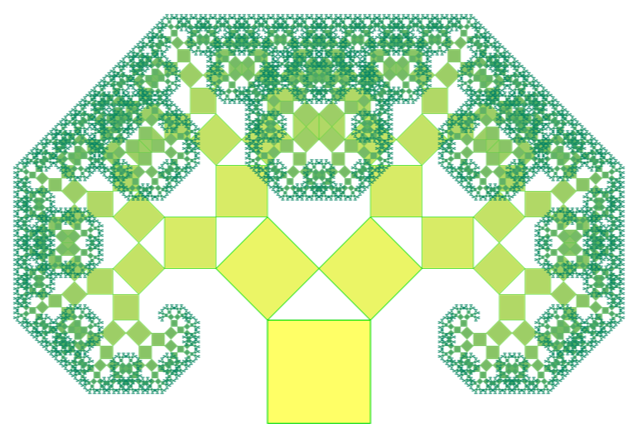
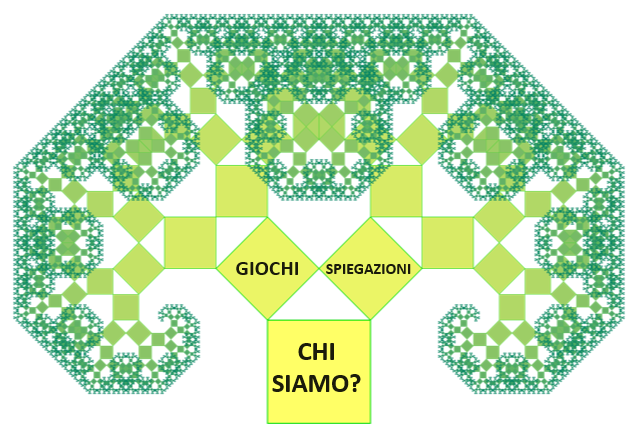
push

Changed region(s): [[0.4176, 0.7788, 0.5667, 0.9286], [0.5071, 0.5991, 0.6562, 0.629], [0.3579, 0.5991, 0.4772, 0.659]]

diff --git a/js/gioco1.js b/js/gioco1.js
@@ -40,7 +40,7 @@ function spawnTarget() {
 
     const targetCounter = document.createElement('div');
     targetCounter.className = 'targetCounter';
-    targetCounter.textContent = '6';
+    targetCounter.textContent = '5';
     const targetCounterX = targetWidth/3;
     const targetCounterY = -targetHeight;
     targetCounter.style.left = targetCounterX + 'px';
@@ -73,17 +73,7 @@ function spawnTarget() {
     gameContainer.appendChild(newTarget);
 }
 
-function spawnTargetCounter(target, targetX, targetY) {
-    const targetCounter = document.createElement('div');
-    targetCounter.className = 'targetCounter';
-    targetCounter.textContent = '6';
-    targetCounter.style.left = (targetX + targetWidth/3) + 'px';
-    targetCounter.style.top = (targetY + targetHeight/3) + 'px';
-    targetCounter.style.position = 'absolute'; // Ensure this is set if not already in your CSS
 
-    target.appendChild(targetCounter);
-    gameContainer.appendChild(target);
-}
 
 function decreaseCounters() {
     // Get all counters from the gameContainer element
@@ -101,5 +91,5 @@ function decreaseCounters() {
     }
 }
 
-spawnTargetInterval = setInterval(spawnTarget, 500);
+spawnTargetInterval = setInterval(spawnTarget, 350);
 decreaseCountersInterval = setInterval(decreaseCounters, 1000);

diff --git a/gioco2.html b/gioco2.html
@@ -14,11 +14,11 @@
         <button onclick="window.location.href='chisiamo.html'"><img src="images/chisiamo_image.png" height="50" width="145" Border="0"></button>
     </div> 
     
-    </div>
+    
     <h1>Benvenuto al Gioco del Calice di Pitagora</h1>
     <p id="gameDescription">Il timer accanto al calice scomparirà tra qualche secondo. Clicca il bottone "Ora!" quando credi che il timer sia arrivato a zero.</p>
     <div id="gameContainer">
-        <img src="images/coppa_di_pitagora.png" alt="Coppa di Pitagora">
+        <img id="cup" src="images/coppa_di_pitagora.png" alt="Coppa di Pitagora">
         <button id="guessButton" onclick="checkTime()">Ora!</button>
         <div id="timer">15</div>        
     </div>

diff --git a/index.html b/index.html
@@ -20,7 +20,8 @@
     <map name="image-map">
         <!-- Define clickable areas -->
         <area shape="rect" coords="268,320,370,425" href="chisiamo.html" alt="chi siamo?">
-        <area shape="poly" coords="216,268,268,216,318,268,268,320" href="#" alt="" onclick="alert('Menu 2 clicked')">    
+        <area shape="poly" coords="216,268,268,216,318,268,268,320" href="giochi.html" alt="giochi">    
+        <area shape="poly" coords="320,268,370,218,422,268,368,320" href="spiegazioni.html" alt="spiegazioni">
     </map>
 
     <script src="js/script.js"></script>

diff --git a/css/gioco2.css b/css/gioco2.css
@@ -20,7 +20,7 @@
     cursor: pointer;
 }
 
-img {
+#cup {
     width: 30%;
     margin: 50px;
     height: auto;
